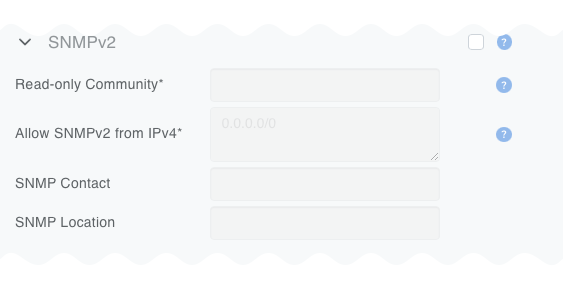
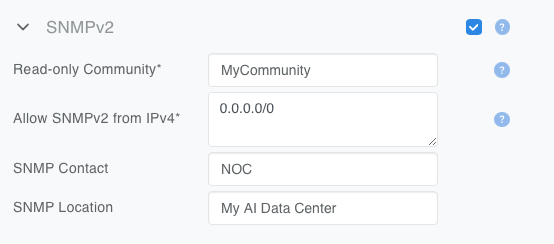
Add a note to set checkbox. Updated screenshot

diff --git a/inventory-profile.rst b/inventory-profile.rst
@@ -29,7 +29,7 @@ Inventory profiles allow security hardening of inventory devices. By default all
 SNMPv2 credentials
 ==================
 
-Netris administers can define SNMPv2 credentials to monitor switches and SoftGates in the inventory. To add SNMPv2 credentials, expand the SNMPv2 section of the Inventory Profile form and fill in the fields as described below:
+Netris administers can define SNMPv2 credentials to monitor switches and SoftGates in the inventory. To add SNMPv2 credentials, expand the SNMPv2 section of the Inventory Profile form, set the checkbox to enabled, and fill in the fields as described below:
 
 .. list-table:: SNMPv2 Fields
 
